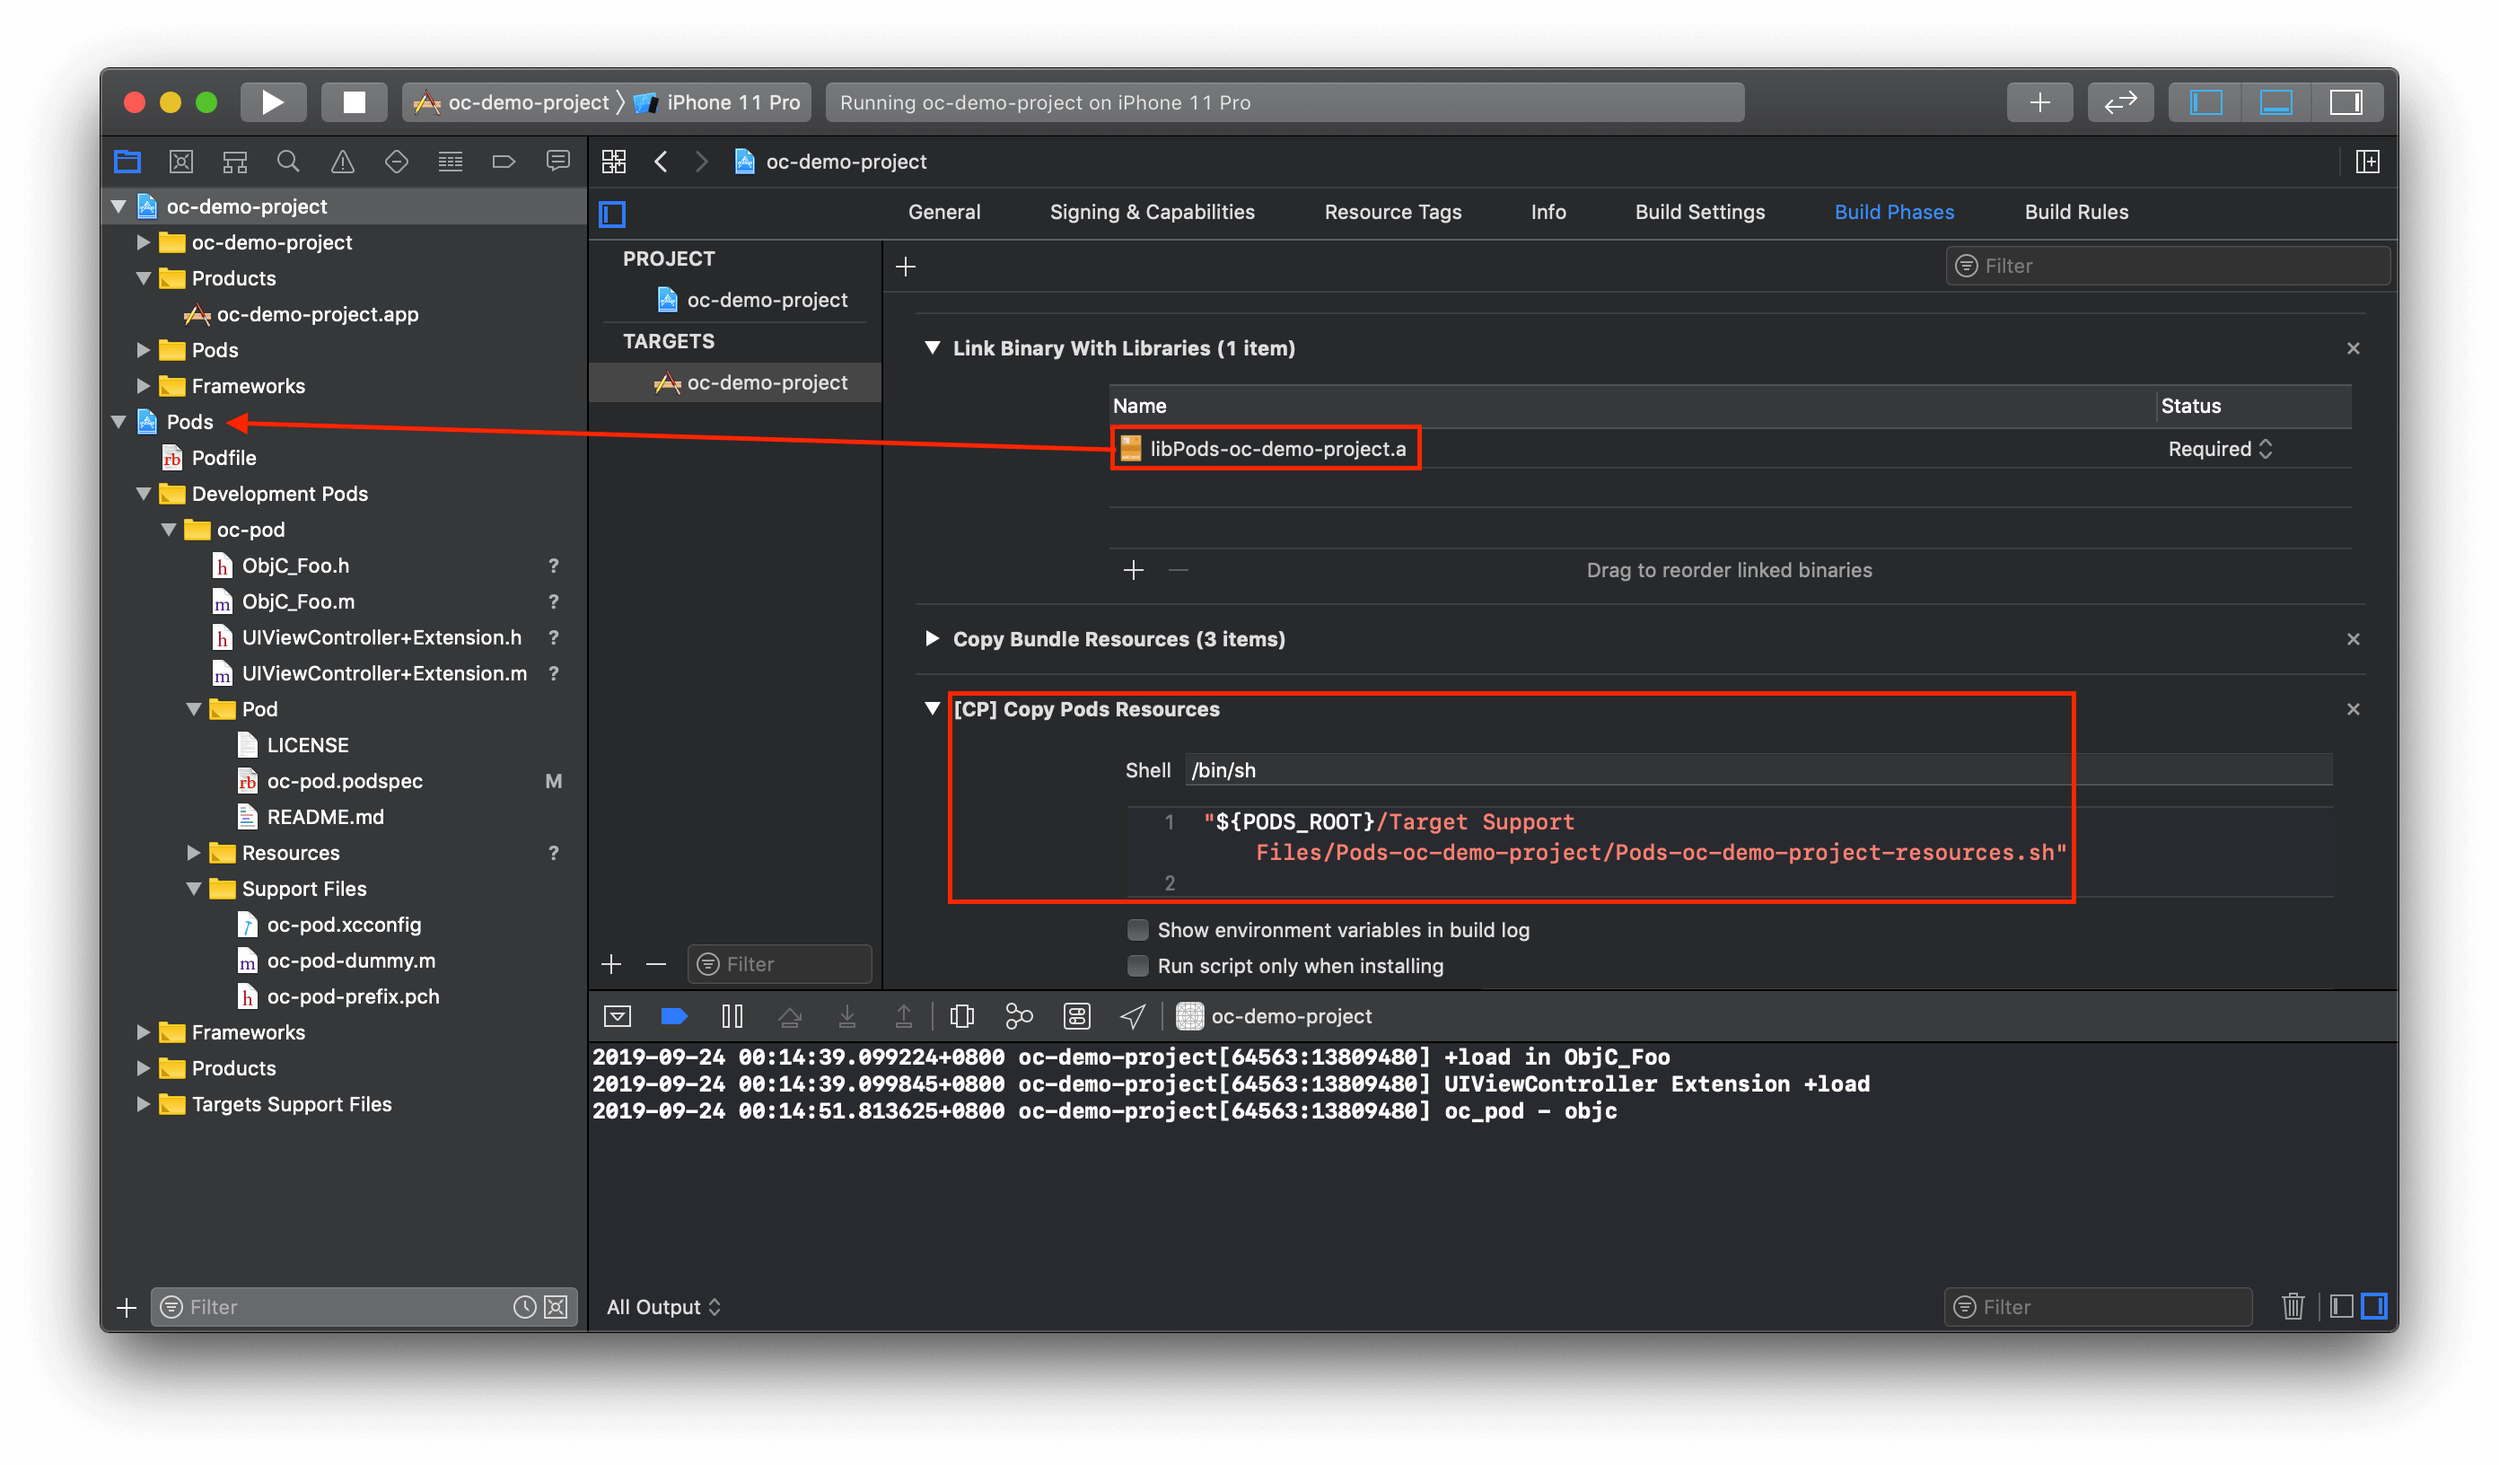
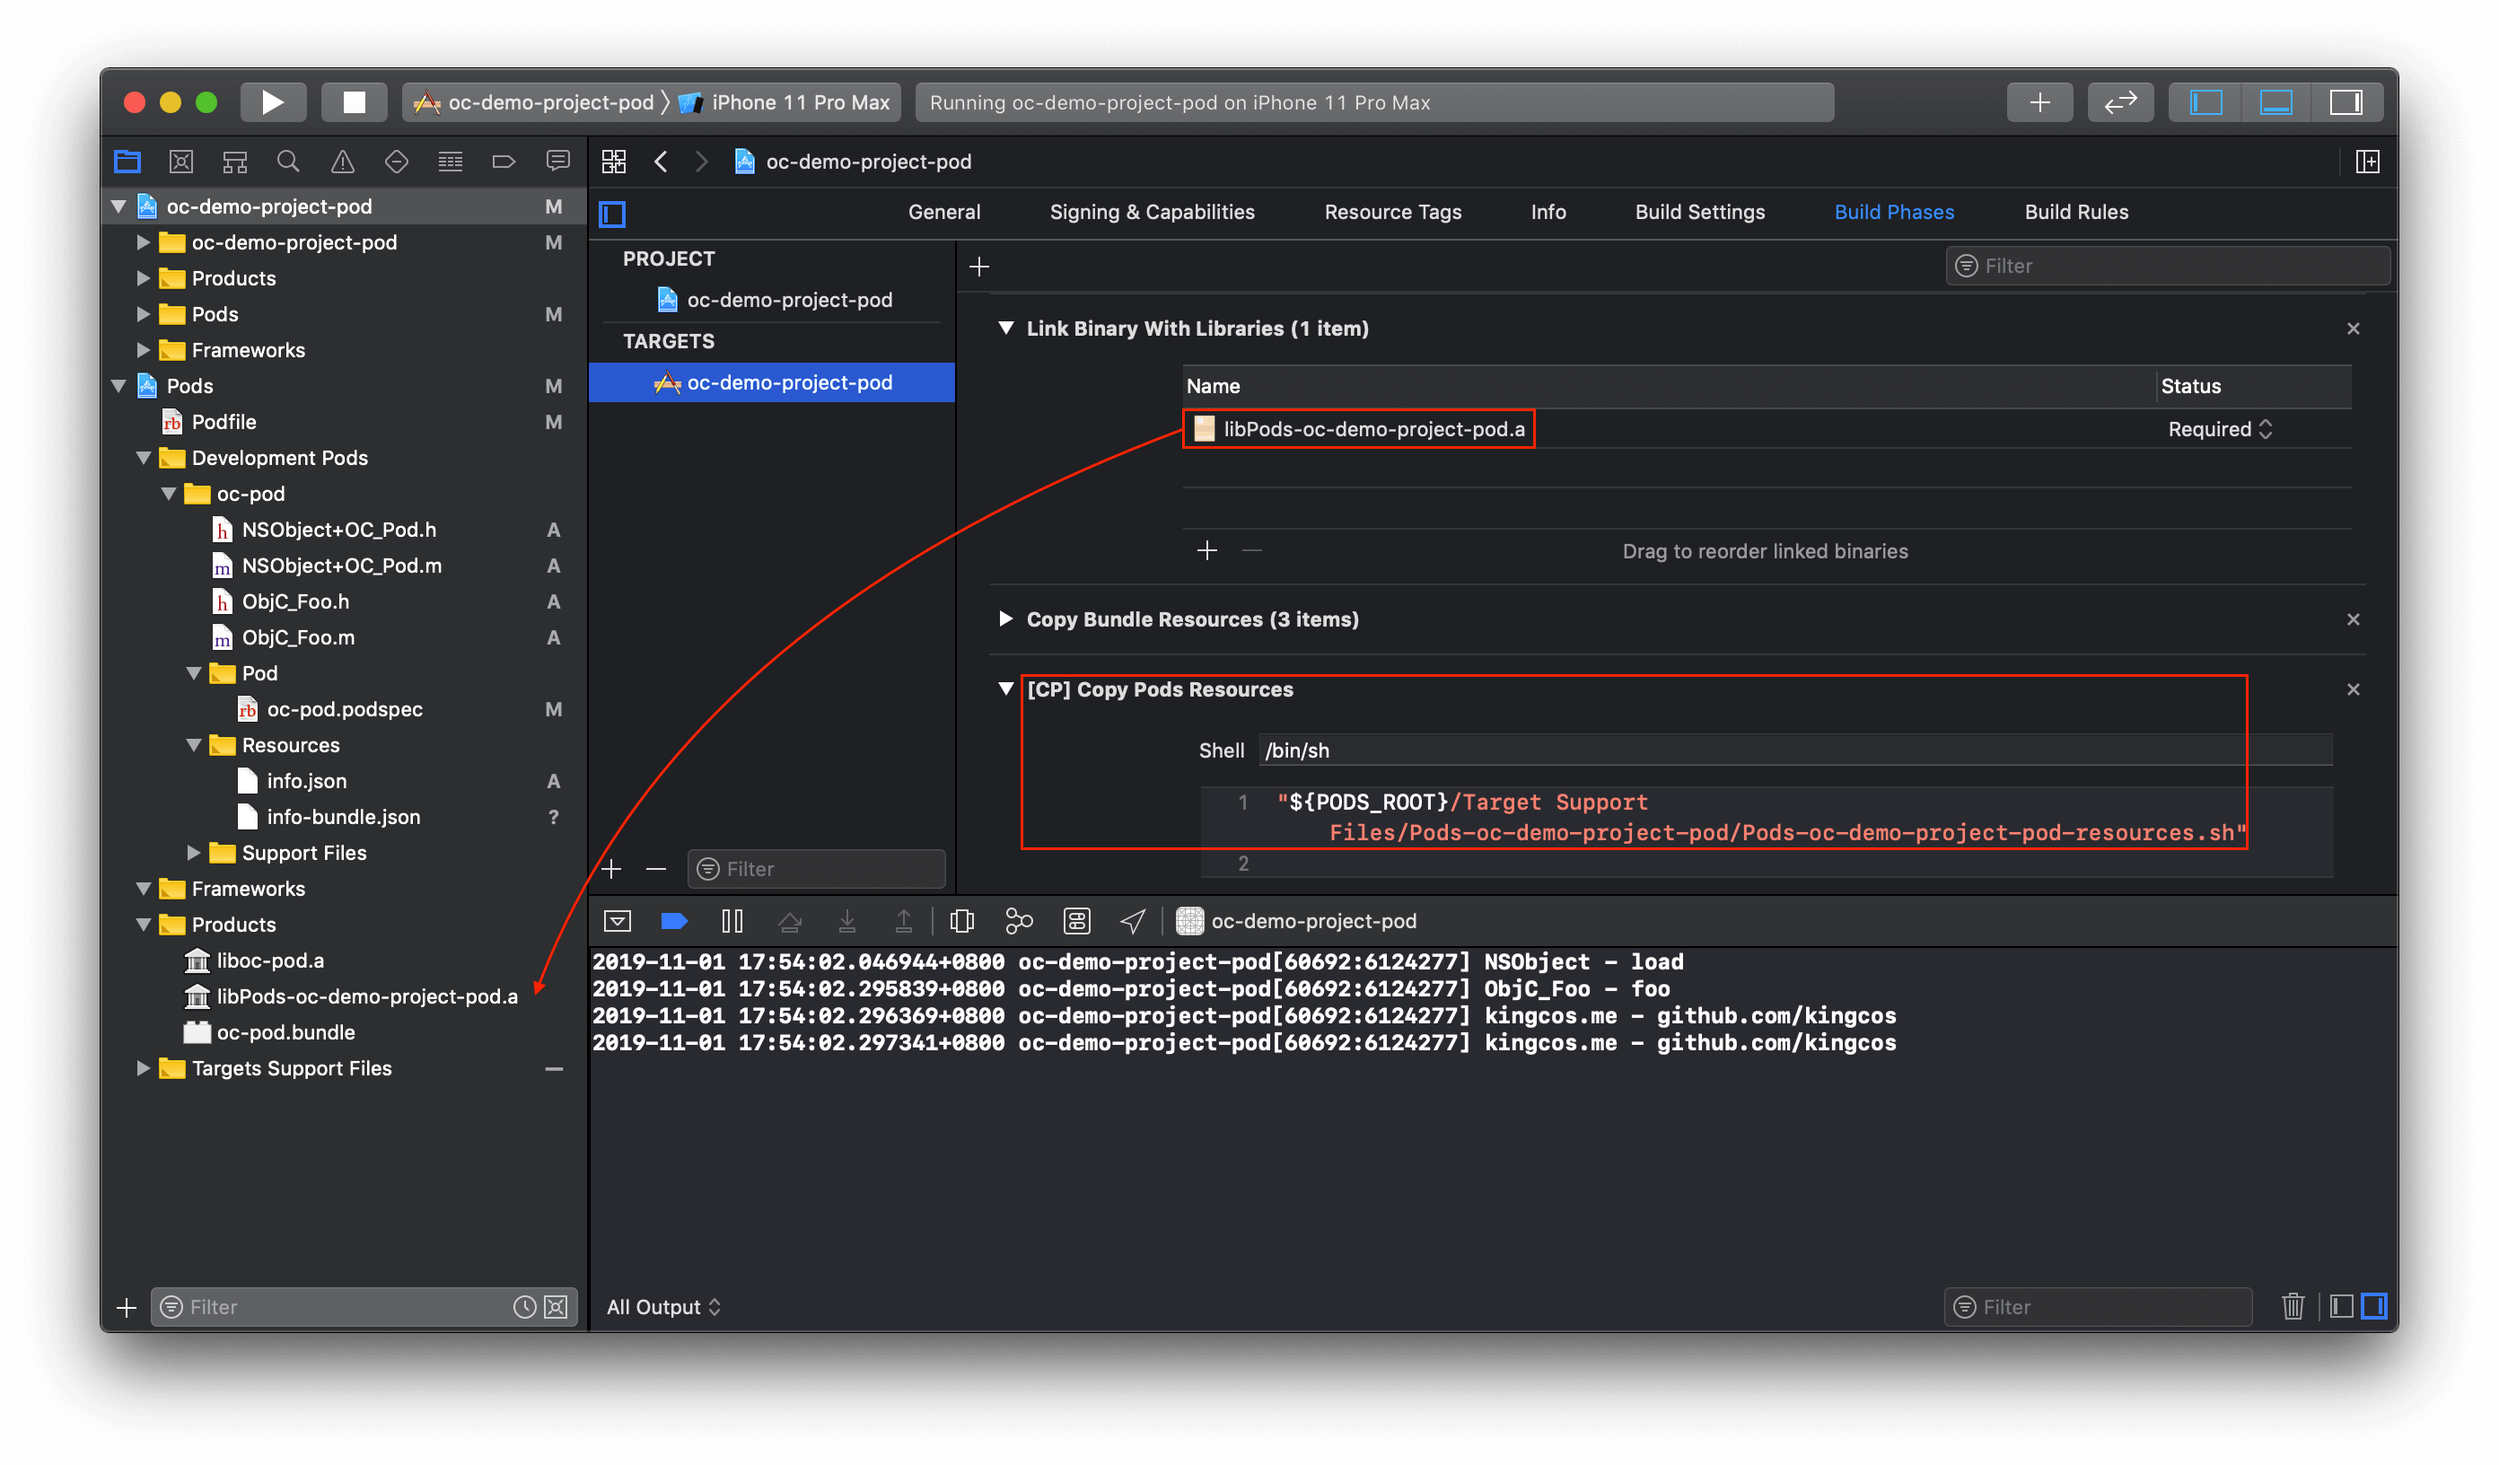
Build

diff --git a/posts/2019/libraries_in_ios/index.html b/posts/2019/libraries_in_ios/index.html
@@ -608,7 +608,7 @@ class ViewController: UIViewController {
 
 <h2 id="cocoapods">CocoaPods</h2>
 
-<p>CocoaPods 是 iOS/macOS 开发的老牌搭档。</p>
+<p>iOS 开发发展的这些年，CocoaPods 是 iOS/macOS 开发的老牌搭档，用来帮助我们管理工程依赖。</p>
 
 <h3 id="非-use-frameworks">非 use_frameworks!</h3>
 
@@ -617,77 +617,74 @@ class ViewController: UIViewController {
 <p>使用 <code>pod lib create oc-pod</code> 即可以创建我们的私有 Pod，资源文件的管理这里我们尝试使用两种方式：</p>
 
 <pre><code class="language-ruby"># 将通过脚本引入（将直接把文件本身移动到主 Bundle 下）
-s.resources = ['oc-pod/Assets/*.json']
+s.resources = ['oc-pod/Assets/info.json']
 
-# 将创建 co-pod 的 Bundle（将把 Bundle 移动到主 Bundle 下）
+# 将创建 oc-pod 的 Bundle（将把 Bundle 移动到主 Bundle 下）
 s.resource_bundles = {
-    'oc-pod' =&gt; ['oc-pod/Assets/*.json']
+    'oc-pod' =&gt; ['oc-pod/Assets/info-bundle.json']
 }
 </code></pre>
 
-<p>这里我们将放置在与 oc-demo-project 同一父目录下，并将语言选择 Obj-C，随后在 oc-demo-project 目录下，<code>pod init</code> 并以路径指定方式引用刚才创建的 Pod：</p>
+<p>这里我们将放置在与 oc-demo-project-pod 同一父目录下，并将语言选择 Obj-C，随后在 oc-demo-project-pod 目录下，<code>pod init</code> 并以路径指定方式引用刚才创建的 Pod：</p>
 
-<pre><code class="language-ruby">target 'oc-demo-project' do
-  # Comment the next line if you don't want to use dynamic frameworks
+<pre><code class="language-ruby"># Uncomment the next line to define a global platform for your project
+platform :ios, '13.0'
+
+target 'oc-demo-project-pod' do
+  # Uncomment the next line if you're using Swift or would like to use dynamic frameworks
   # use_frameworks!
+
+  # Pods for oc-demo-project-pod
   pod 'oc-pod', :path =&gt; '../oc-pod'
 end
+
 </code></pre>
 
 <p>我们将上文已有代码放在 oc-pod 的 <code>Classes</code> 文件夹下，并将资源放在 <code>Assets</code> 文件夹下：</p>
 
-<pre><code class="language-shell">➜  oc-pod git:(master) ✗ tree
+<pre><code class="language-shell">➜  oc-pod git:(master) ✗ tree                                           15:01:44
 .
-├── Example
-│   ├── Podfile
-│   ├── Podfile.lock
-│   ├── Pods
-│   │   ├── Headers
-│   │   ├── Local\ Podspecs
-│   │   │   └── oc-pod.podspec.json
-│   │   ├── Manifest.lock
-│   │   ├── Pods.xcodeproj
-│   │   │   ├── project.pbxproj
-│   │   │   └── xcuserdata
-│   │   │       └── kingcos.xcuserdatad
-│   │   │           └── xcschemes
-│   │   │               ├── Pods-oc-pod_Tests.xcscheme
-│   │   │               ├── oc-pod.xcscheme
-│   │   │               └── xcschememanagement.plist
-│   │   └── Target\ Support\ Files
-│   │       ├── Pods-oc-pod_Tests
-│   │       │   ├── Pods-oc-pod_Tests-Info.plist
-│   │       │   ├── Pods-oc-pod_Tests-acknowledgements.markdown
-│   │       │   ├── Pods-oc-pod_Tests-acknowledgements.plist
-│   │       │   ├── Pods-oc-pod_Tests-dummy.m
-│   │       │   ├── Pods-oc-pod_Tests-frameworks.sh ➡ resources 处理脚本
-│   │       │   ├── Pods-oc-pod_Tests-umbrella.h
-│   │       │   ├── Pods-oc-pod_Tests.debug.xcconfig
-│   │       │   ├── Pods-oc-pod_Tests.modulemap
-│   │       │   └── Pods-oc-pod_Tests.release.xcconfig
-│   │       └── oc-pod
-│   │           ├── oc-pod-Info.plist
-│   │           ├── oc-pod-dummy.m
-│   │           ├── oc-pod-prefix.pch
-│   │           ├── oc-pod-umbrella.h
-│   │           ├── oc-pod.modulemap
-│   │           └── oc-pod.xcconfig
-│   ├── oc-pod.xcodeproj
-│   └── oc-pod.xcworkspace
-├── LICENSE
-├── README.md
-├── _Pods.xcodeproj -&gt; Example/Pods/Pods.xcodeproj
 ├── oc-pod
-│   ├── Assets ➡ 资源
-│   │   └── oc-pod.json
+│   ├── Assets  ➡ 资源
+│   │   ├── info-bundle.json
+│   │   └── info.json
 │   └── Classes ➡ 源码
+│       ├── NSObject+OC_Pod.h
+│       ├── NSObject+OC_Pod.m
 │       ├── ObjC_Foo.h
-│       ├── ObjC_Foo.m
-│       ├── UIViewController+Extension.h
-│       └── UIViewController+Extension.m
+│       └── ObjC_Foo.m
 └── oc-pod.podspec
 
-25 directories, 41 files
+3 directories, 7 files
+
+➜  oc-demo-project-pod git:(master) ✗ tree
+.
+├── Podfile
+├── Podfile.lock
+├── Pods
+│   ├── Headers
+│   ├── Local\ Podspecs
+│   │   └── oc-pod.podspec.json
+│   ├── Manifest.lock
+│   ├── Pods.xcodeproj
+│   └── Target\ Support\ Files
+│       ├── Pods-oc-demo-project-pod
+│       │   ├── Pods-oc-demo-project-pod-acknowledgements.markdown
+│       │   ├── Pods-oc-demo-project-pod-acknowledgements.plist
+│       │   ├── Pods-oc-demo-project-pod-dummy.m
+│       │   ├── Pods-oc-demo-project-pod-resources.sh ➡ resources 处理脚本
+│       │   ├── Pods-oc-demo-project-pod.debug.xcconfig
+│       │   └── Pods-oc-demo-project-pod.release.xcconfig
+│       └── oc-pod
+│           ├── ResourceBundle-oc-pod-oc-pod-Info.plist
+│           ├── oc-pod-dummy.m
+│           ├── oc-pod-prefix.pch
+│           └── oc-pod.xcconfig
+├── oc-demo-project-pod
+├── oc-demo-project-pod.xcodeproj
+└── oc-demo-project-pod.xcworkspace
+
+28 directories, 42 files
 </code></pre>
 
 <blockquote>
@@ -700,11 +697,11 @@ end
 
 <p><img src="/img/2019/libraries_in_ios/13.png" alt="13" /></p>
 
-<p>而我们定义在 Podfile 中的相关依赖将作为类似上文中 Cocoa Touch Static Library 一样的 Target 又被 Pods 工程自身依赖：</p>
+<p>而我们定义在 Podfile 中的相关依赖如 oc-pod 将作为类似上文中 Cocoa Touch Static Library 一样的 Target 被 Pods 工程自身依赖：</p>
 
 <p><img src="/img/2019/libraries_in_ios/12.png" alt="12" /></p>
 
-<p>Resource Bundle 或者 <code>s.dependency</code> 将被相关的 Pod 依赖：</p>
+<p>Resource Bundle 或者 <code>s.dependency</code> 的子依赖将被 oc-pod 依赖：</p>
 
 <p><img src="/img/2019/libraries_in_ios/15.png" alt="15" /></p>
 

diff --git a/index.html b/index.html
@@ -1,7 +1,7 @@
 <!DOCTYPE html>
 <html lang="en">
   <head>
-	<meta name="generator" content="Hugo 0.59.0" />
+	<meta name="generator" content="Hugo 0.59.1" />
     
       <title>iBlog</title>
     

diff --git a/page/2/index.html b/page/2/index.html
@@ -1,7 +1,7 @@
 <!DOCTYPE html>
 <html lang="en">
   <head>
-	<meta name="generator" content="Hugo 0.59.0" />
+	<meta name="generator" content="Hugo 0.59.1" />
     
       <title>iBlog</title>
     

diff --git a/page/3/index.html b/page/3/index.html
@@ -1,7 +1,7 @@
 <!DOCTYPE html>
 <html lang="en">
   <head>
-	<meta name="generator" content="Hugo 0.59.0" />
+	<meta name="generator" content="Hugo 0.59.1" />
     
       <title>iBlog</title>
     

diff --git a/page/4/index.html b/page/4/index.html
@@ -1,7 +1,7 @@
 <!DOCTYPE html>
 <html lang="en">
   <head>
-	<meta name="generator" content="Hugo 0.59.0" />
+	<meta name="generator" content="Hugo 0.59.1" />
     
       <title>iBlog</title>
     

diff --git a/page/5/index.html b/page/5/index.html
@@ -1,7 +1,7 @@
 <!DOCTYPE html>
 <html lang="en">
   <head>
-	<meta name="generator" content="Hugo 0.59.0" />
+	<meta name="generator" content="Hugo 0.59.1" />
     
       <title>iBlog</title>
     

diff --git a/page/6/index.html b/page/6/index.html
@@ -1,7 +1,7 @@
 <!DOCTYPE html>
 <html lang="en">
   <head>
-	<meta name="generator" content="Hugo 0.59.0" />
+	<meta name="generator" content="Hugo 0.59.1" />
     
       <title>iBlog</title>
     

diff --git a/page/7/index.html b/page/7/index.html
@@ -1,7 +1,7 @@
 <!DOCTYPE html>
 <html lang="en">
   <head>
-	<meta name="generator" content="Hugo 0.59.0" />
+	<meta name="generator" content="Hugo 0.59.1" />
     
       <title>iBlog</title>
     

diff --git a/page/8/index.html b/page/8/index.html
@@ -1,7 +1,7 @@
 <!DOCTYPE html>
 <html lang="en">
   <head>
-	<meta name="generator" content="Hugo 0.59.0" />
+	<meta name="generator" content="Hugo 0.59.1" />
     
       <title>iBlog</title>
     

diff --git a/page/9/index.html b/page/9/index.html
@@ -1,7 +1,7 @@
 <!DOCTYPE html>
 <html lang="en">
   <head>
-	<meta name="generator" content="Hugo 0.59.0" />
+	<meta name="generator" content="Hugo 0.59.1" />
     
       <title>iBlog</title>
     
